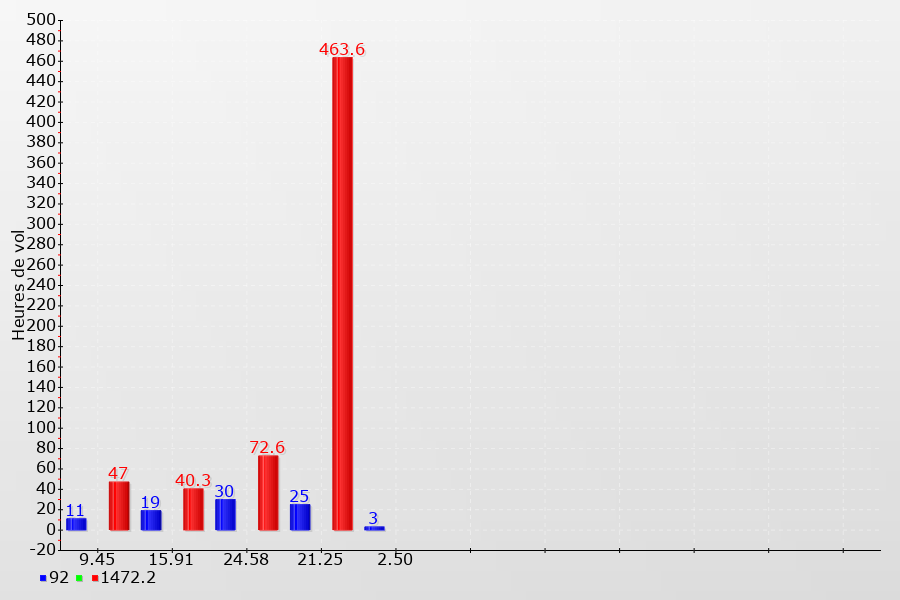
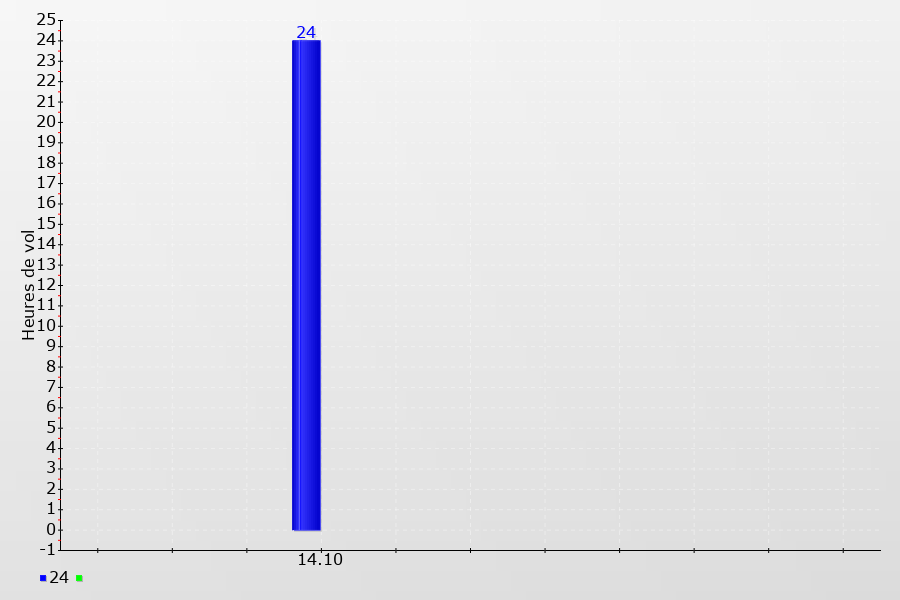
Amélioration GUI smartphone

diff --git a/application/views/compta/bs_journalCompteView.php b/application/views/compta/bs_journalCompteView.php
@@ -56,11 +56,11 @@ if ($section) {
     <!-- Filtre -->
     <div class="accordion-item">
         <h3 class="accordion-header" id="panel-filtre">
-            <button class="accordion-button" type="button" data-bs-toggle="collapse" data-bs-target="#panel_filter_id" aria-expanded="true" aria-controls="panel_filter_id">
+            <button class="accordion-button collapsed" type="button" data-bs-toggle="collapse" data-bs-target="#panel_filter_id" aria-expanded="false" aria-controls="panel_filter_id">
                 <?= $this->lang->line("gvv_str_filter") ?>
             </button>
         </h3>
-        <div id="panel_filter_id" class="accordion-collapse collapse  <?= $filter_active ? 'show' : '' ?>" aria-labelledby="panel-filtre">
+        <div id="panel_filter_id" class="accordion-collapse collapse" aria-labelledby="panel-filtre">
             <div class="accordion-body">
                 <form action="<?= controller_url($controller) . '/filterValidation/' . $compte . ($section ? '/' . $section['id'] : '') ?>" method="post" accept-charset="utf-8" name="saisie">
 
@@ -157,10 +157,10 @@ if ($section) {
         <div class="accordion-item">
             <h3 class="accordion-header" id="panel-compte">
                 <button class="accordion-button collapsed" type="button" data-bs-toggle="collapse" data-bs-target="#panelsStayOpen-collapseThree" aria-expanded="false" aria-controls="panelsStayOpen-collapseThree">
-                    <?= $this->lang->line("gvv_compta_fieldset_compte") ?>
+                    <?= $this->lang->line("gvv_compta_fieldset_compte") . nbs() . $nom ?>
                 </button>
             </h3>
-            <div id="panelsStayOpen-collapseThree" class="accordion-collapse collapse show" aria-labelledby="panel-compte">
+            <div id="panelsStayOpen-collapseThree" class="accordion-collapse collapse" aria-labelledby="panel-compte">
                 <div class="accordion-body">
                     <?php
                     if ($solde_avant < 0) {
@@ -326,6 +326,24 @@ echo '<style>
     background-color: #ffff00;
     font-weight: bold;
     padding: 0 2px;
+}
+
+/* Accordion headers - visually clickable */
+.accordion-button {
+    background-color: #f0f4f8;
+    font-weight: 600;
+    border-left: 4px solid #6c9dc6;
+}
+
+.accordion-button:not(.collapsed) {
+    background-color: #d6e8f7;
+    color: #1a5276;
+    border-left: 4px solid #2980b9;
+}
+
+.accordion-button:hover {
+    background-color: #dce8f3;
+    cursor: pointer;
 }
 </style>';
 ?>

diff --git a/application/views/bs_header.php b/application/views/bs_header.php
@@ -181,4 +181,29 @@
 		}
 	</script>
 
+	<!-- Collapse all accordions and filter cards on mobile (smartphones < 768px) -->
+	<script type="text/javascript">
+		document.addEventListener('DOMContentLoaded', function() {
+			if (window.innerWidth < 768) {
+				// Collapse Bootstrap accordions
+				document.querySelectorAll('.accordion-collapse.show').forEach(function(panel) {
+					bootstrap.Collapse.getOrCreateInstance(panel, {toggle: false}).hide();
+				});
+				// Collapse card-based filter sections and make them togglable
+				document.querySelectorAll('.card-header').forEach(function(header) {
+					if (header.querySelector('.fa-filter')) {
+						var body = header.closest('.card').querySelector('.card-body');
+						if (body) {
+							body.style.display = 'none';
+							header.style.cursor = 'pointer';
+							header.addEventListener('click', function() {
+								body.style.display = body.style.display === 'none' ? '' : 'none';
+							});
+						}
+					}
+				});
+			}
+		});
+	</script>
+
 </head>

diff --git a/application/views/archived_documents/bs_documentsListView.php b/application/views/archived_documents/bs_documentsListView.php
@@ -65,7 +65,12 @@ $filter_scope = isset($filters['scope']) ? $filters['scope'] : '';
     white-space: nowrap !important;
 }
 </style>
-<form method="get" class="mb-3" id="doc-filter-form">
+<div class="card mb-3">
+    <div class="card-header">
+        <i class="fas fa-filter" aria-hidden="true"></i> Filtres
+    </div>
+    <div class="card-body">
+<form method="get" id="doc-filter-form">
     <input type="hidden" name="filter_submitted" value="1">
     <div class="row g-2 align-items-end">
         <div class="col-sm-3">
@@ -122,6 +127,8 @@ $filter_scope = isset($filters['scope']) ? $filters['scope'] : '';
         </div>
     </div>
 </form>
+    </div>
+</div>
 <script>
 // Purge le state DataTables sauvegardé pour cette table afin que les largeurs de colonnes
 // ne soient pas restaurées depuis une ancienne session où du texte d'erreur les avait élargies.

diff --git a/application/views/formation_autorisations_solo/index.php b/application/views/formation_autorisations_solo/index.php
@@ -61,6 +61,9 @@ $this->lang->load('gvv');
 
     <!-- Filters -->
     <div class="card mb-3">
+        <div class="card-header">
+            <i class="fas fa-filter" aria-hidden="true"></i> Filtres
+        </div>
         <div class="card-body">
             <form method="get" action="<?= controller_url($controller) ?>" class="row g-3">
                 <div class="col-md-4">

diff --git a/application/controllers/backend.php b/application/controllers/backend.php
@@ -333,7 +333,7 @@ class Backend extends GVV_Controller {
     /**
      * Validation du formulaire d'édition
      */
-    public function formValidation($action) {
+    public function formValidation($action, $return_on_success = false) {
         // Validates the form entries
         $this->form_validation->set_error_delimiters('<div class="error">', '</div>');
 

diff --git a/application/views/bs_configView.php b/application/views/bs_configView.php
@@ -22,8 +22,8 @@
 // ----------------------------------------------------------------------------------------
 
 $this->load->view('bs_header');
-$this->load->view('bs_banner');
 $this->load->view('bs_menu');
+$this->load->view('bs_banner');
 
 $this->lang->load('config');
 